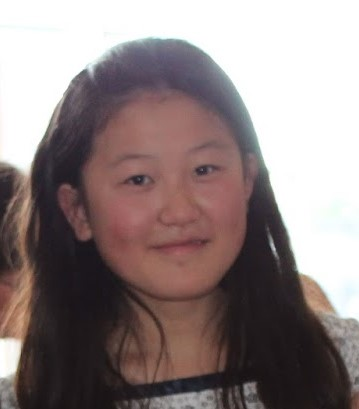
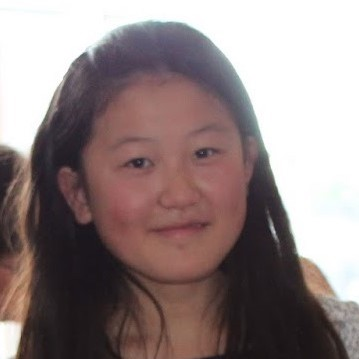
Update content and made profile picture mobile responsive, added head

diff --git a/pages/index.tsx b/pages/index.tsx
@@ -1,55 +1,75 @@
 import { FontAwesomeIcon } from '@fortawesome/react-fontawesome';
 import { faCertificate } from '@fortawesome/free-solid-svg-icons';
+import Head from "next/head"
 
 export default function Index() {
     return (
-        <>
-            <div id="nav-bar"><span>Xinqi Shang</span></div>
+        <><Head>
+            <title>Xinqi</title>
+            <meta name="description" content="Xinqi personal tutoring website"/>
+            
+    
+
+        </Head>
+            <div id="nav-bar"><span>Xinqi</span></div>
             <div id="container">
                 <div id="top-section">
-                    
+
                     <button type="button" id="menu-button">Menu</button>
-                    <img src="/chailey-leavers.jpg" id="prof-pic" />
+
+                    <img src="/profile-pic.jpeg" id="prof-pic" />
+
                     <h1>Hi, nice to meet you!<br />I'm Xinqi.</h1>
                 </div>
 
-                {/* <a href = "/test">Link to another page</a>
-                <h1>Hello World!</h1>
-                <p>This is a starter template you can use for Web Dev for Makers projects.</p>
-                <img src="/logo.png" alt="Web Dev for Makers Logo" /> */}
+              
                 <p>
-                    I'm a Natural science graduate from the <b>University of Cambridge</b> where I studied physical natural sciences specialising in material science in my final year
+                    I'm a Natural Sciences graduate from the <b>University of Cambridge</b> where I studied Physical Natural Sciences specialising in Materials Science in my final year.
                 </p>
                 <p>
-                    After graduating, I spent the covid years tutoring online for various subjects including maths, phyiscs and chemistry for a range of students, primarily at the GCSE to ALevel stages.
+                    After graduating, I started tutoring online during lockdown on various subjects including Maths, Further Maths, Phyiscs and Chemistry to a range of students, primarily to the GCSE and A-Level cohort.
                 </p>
                 <p>
-                    In September, I will start my new job as a math teacher at <a href="https://www.lancingcollege.co.uk/"><b>Lancing College</b></a>,  and I will also be dedicating half of my time to the <b>PGCE</b> course
+                    In September, I will be starting my new job as a Maths teacher at <a href="https://www.lancingcollege.co.uk/"><b>Lancing College</b></a>,  and I will also be dedicating half of my time to study towards the <b>PGCE</b> qualification
                 </p>
 
                 <hr />
-                <a href="https://peppapigworld.co.uk/pages/george-pig" className="student-wrapper">
-                    <div className="student-box">
-                    <FontAwesomeIcon className="badge" icon={faCertificate} size='2xl' style={{ color: "#f6d609", }} />
-                        <img src="/andy.png" alt="a pink cartoon pig on a green background" />
 
-                        <h2>Andy 
-                            
-                
-                        </h2>
-                        <p>Feedback "Xinqi helped me start the anti-crime gang at school"</p>
-                    </div>
-                </a>
 
-                <a href="https://peppapigworld.co.uk/pages/danny-dog" className="student-wrapper">
-                    <div className="student-box">
-                        <FontAwesomeIcon className="badge" icon={faCertificate} size='2xl' style={{ color: "#f6d609", }} />
-                        <img src="/darren.png" alt="a brown cartoon dog on a green background" />
-                        <h2>Darren</h2>
-                        <p>Feedback "Xinqi told me to buy some wires, so I bought them off taobao. She hasn't told me what to do with them yet"</p>
-                    </div>
-                </a>
-             
+                <div id="flex-container">
+                    <a href="/feedback" className="content-wrapper">
+                        <div className="content-box">
+
+                            <img src="/chat-bubbles.jpeg" alt="white sticky notes with blue speech marks " />
+
+                            <h2>Student <br/> Reviews
+                            </h2>
+                            <p>Helping students gain the grades they aspire</p>
+
+                        </div>
+                    </a>
+
+                    <a href="/teaching" className="content-wrapper">
+                        <div className="content-box">
+
+                            <img src="/ideas.jpeg" alt="a blackboard with chalk drawings of ideas radiating out from a light bulb in the middle" />
+                            <h2>Teaching methodology</h2>
+                            <p>Tailored to students of individual abilities</p>
+                        </div>
+                    </a>
+
+                    <a href="/hobbies" className="content-wrapper">
+                        <div className="content-box">
+
+                            <img src="/crochet-green.png" alt="a pair of dangling cherry crochet earings against a matcha green background with a reel of string and crochet hook in the foreground " />
+                            <h2>Hobbies and interests</h2>
+                            <p>Hands on crafts with overloaded <i>cuteness</i></p>
+
+                        </div>
+                    </a>
+
+                </div>
+
 
             </div>
 

diff --git a/styles/globals.css b/styles/globals.css
@@ -4,120 +4,158 @@ body {
     font-family: "Inter", sans-serif;
 }
 
-#container{
-    max-width : 800px;        /*adjustable container size according to window size */
+#container {
+    max-width: 1000px;
+    /*adjustable container size according to window size */
     padding: 0 16px;
-    margin : 0 auto;
+    margin: 0 auto;
 }
 
-#prof-pic{
-    
-    width:200px;
-    height:200px;
+#prof-pic {
+
+    width: 40%;
+    height: 40%;
     object-fit: cover;
-    border-radius: 100px;   /*half of the height to give perfect circle*/
-    display: none;
+    border-radius: 50%;
+    /*half of the height to give perfect circle*/
+
 }
 
-@media (min-width:600px){     /*media query overrides code above when the screen size is at least 600px*/
-    #prof-pic{
-        display: inline ;
+@media(min-width:600px) {
+    #prof-pic {
+        width: 228px;
+        height: 228px;
+
     }
 }
 
-#top-section{
-    text-align: center;
-    margin: 100px 0 64px ;
+@media(max-width:400px) {
+    #prof-pic {
+        width: 150px;
+        height: 150px;
+    }
 }
 
-h1{
+
+#top-section {
+    text-align: center;
+    margin: 100px 0 64px;
+}
+
+h1 {
     font-size: 32px;
     font-weight: 400;
     line-height: 48px;
 }
 
-@media(min-width: 600px){
-   h1{
-    font-size: 56px;
-    line-height: 72px;
-   }
+@media(min-width: 600px) {
+    h1 {
+        font-size: 56px;
+        line-height: 72px;
+    }
 }
 
-p{
-    font-size: 24px;
-    line-height: 40px;
+p {
+
+
+    font-size: 20px;
+    line-height: 32px;
 }
 
-p a{
-    color: blue;
+@media(min-width:600px) {
+    p {
+        font-size: 24px;
+        line-height: 40px;
+    }
+}
+
+p a {
+    color: #85a46a;
     text-decoration: none;
 }
 
-hr{
+hr {
     margin: 56px 0;
 }
 
-.student-box{
+.content-box {
     border: 1px solid #bbb;
-    padding: 20px;
+    padding: 18px;
     border-radius: 16px;
     margin-bottom: 32px;
     background-color: white;
-    
+    position: relative;
+
 }
 
-.student-box img{
+.content-box img {
     width: 100%;
-  
+
 }
 
-.student-box h2{
+.content-box h2 {
     font-size: 32px;
     margin-top: 32px;
-  
+
 }
 
-.student-box p{
+.content-box p {
     font-size: 20px;
     line-height: 32px;
     margin-bottom: 0;
     margin-top: 8px;
 }
 
-.student-wrapper{
-    color:unset;
+.content-wrapper {
+    color: unset;
     text-decoration: none;
-    position: relative;
-  
+
+
 }
 
-#menu-button{
-    display:inline-block;
+#menu-button {
+    display: inline-block;
     padding: 8px 16px;
     border-radius: 10px;
     background-color: #222;
     color: white;
     position: absolute;
-    top:24px;
+    top: 24px;
     left: 24px;
     border: none;
     z-index: 2;
+    font-size: 14px;
 }
 
-.badge{
+.badge {
     position: absolute;
-    top:10px;
-    right:10px;
+    top: 10px;
+    right: 10px;
 }
 
-#nav-bar{
+#nav-bar {
     text-align: center;
     width: 100%;
     height: 48px;
     line-height: 48px;
-    position:fixed;
+    position: fixed;
     background-color: white;
-    top:0;
+    top: 0;
     left: 0;
     z-index: 1;
+}
+
+
+
+@media(min-width: 750px) {
+    #flex-container {
+        display: flex
+    }
+
+    .content-wrapper {
+
+        width: 33%;
+        margin: 0 10px;
+
+    }
 }

diff --git a/pages/_document.tsx b/pages/_document.tsx
@@ -9,6 +9,7 @@ export default function Document() {
                     href="https://fonts.googleapis.com/css2?family=Eczar:wght@400;500;600;700;800&family=Inter:wght@300;400;500;600;700&display=swap"
                     rel="stylesheet"
                 />
+       
             </Head>
             <body>
                 <Main />

diff --git a/pages/teaching.tsx b/pages/teaching.tsx
@@ -1,0 +1,15 @@
+export default function Index() {
+    return (
+        <>
+            <div id = "container">
+              
+                <h1>Hello World!</h1>
+                <p>This is a teaching methodology page.</p>
+                <a href = "/">Back</a>
+             
+
+            </div>
+
+        </>
+    );
+}

diff --git a/pages/feedback.tsx b/pages/feedback.tsx
@@ -1,0 +1,15 @@
+export default function Index() {
+    return (
+        <>
+            <div id = "container">
+              
+                <h1>Hello World!</h1>
+                <p>This is a student feedback page.</p>
+                <a href = "/">Back</a>
+              
+
+            </div>
+
+        </>
+    );
+}

diff --git a/pages/hobbies.tsx b/pages/hobbies.tsx
@@ -1,0 +1,15 @@
+export default function Index() {
+    return (
+        <>
+            <div id = "container">
+              
+                <h1>Hello World!</h1>
+                <p>This is the hobbies page.</p>
+                <a href = "/">Back</a>
+           
+
+            </div>
+
+        </>
+    );
+}
